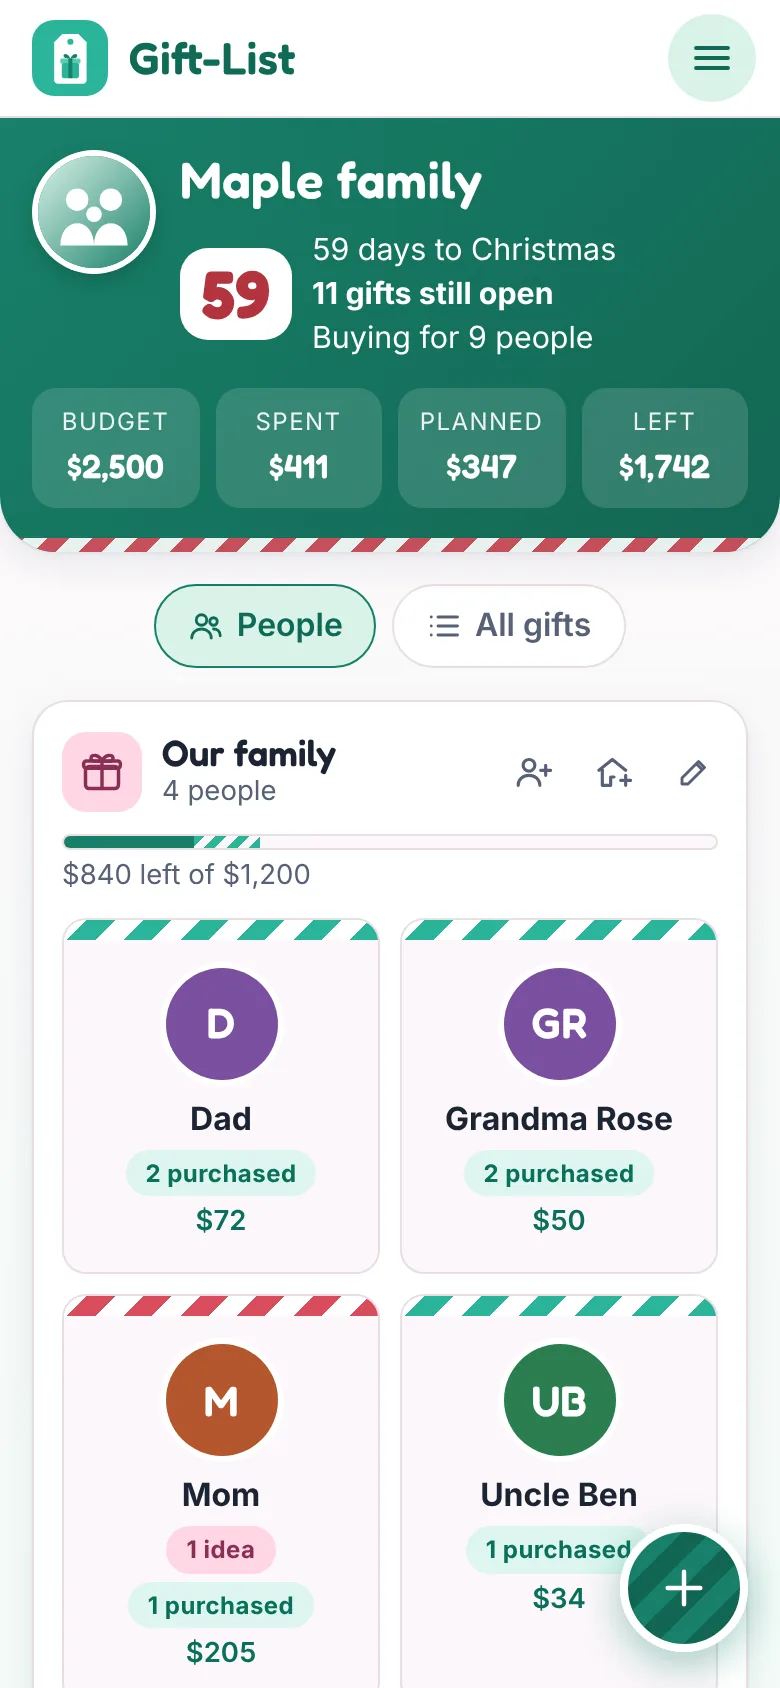
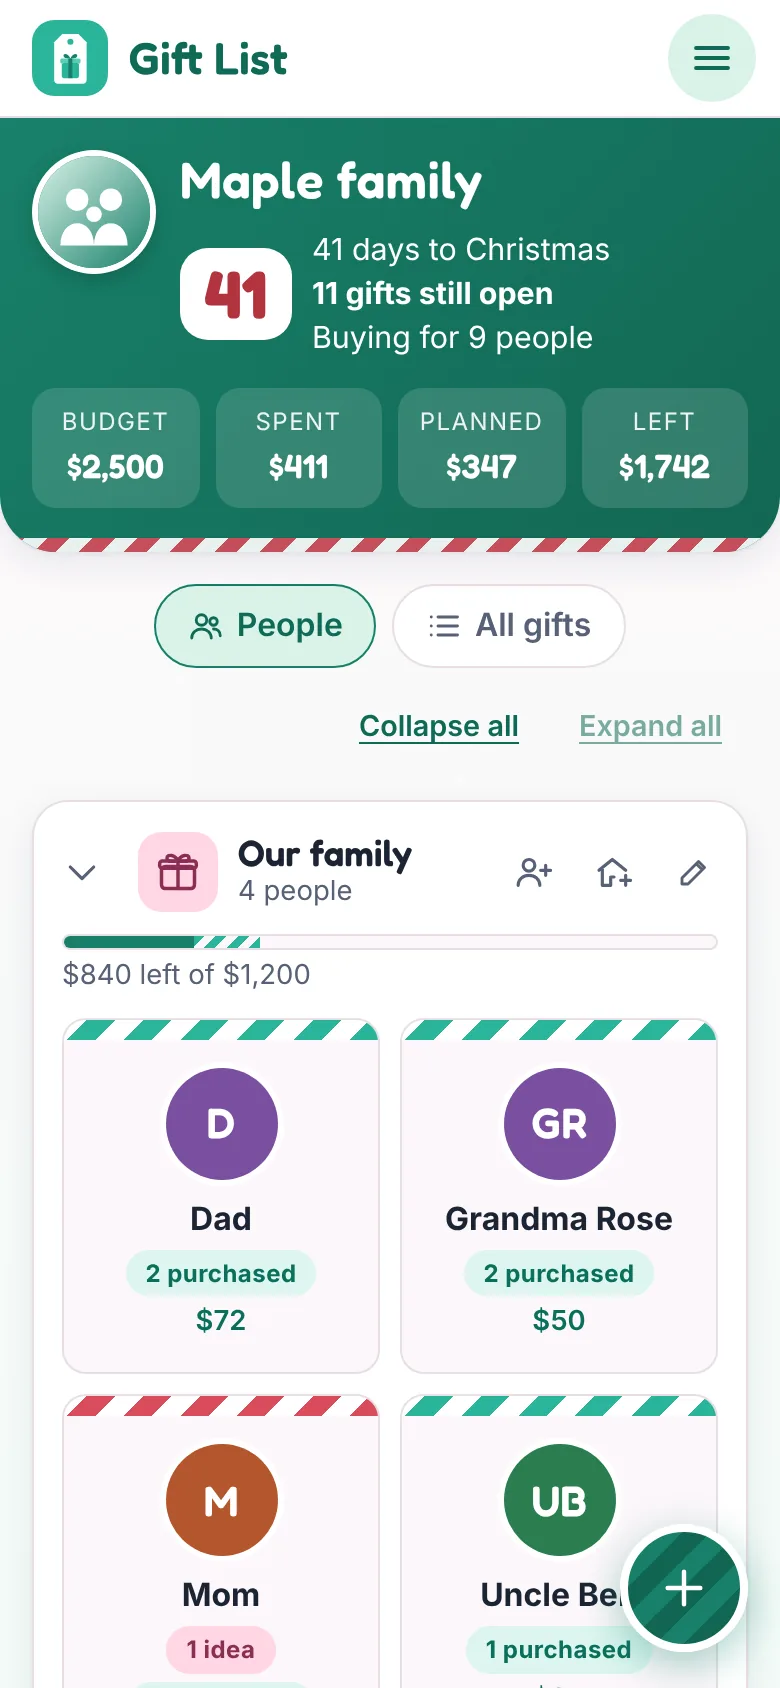
Name it Gift List everywhere (#58)
* Show the app name as Gift List in the top bar

Claude-Session: https://claude.ai/code/session_01QU72hNHumgCYNJom92zNrY

* Gift List everywhere: tab title, Home Screen name, sign-in, settings, widget, docs, landing screens

Claude-Session: https://claude.ai/code/session_01QU72hNHumgCYNJom92zNrY

---------

diff --git a/src/sheets/SettingsSheet.tsx b/src/sheets/SettingsSheet.tsx
@@ -488,13 +488,13 @@ function NotificationsSection({ householdId, userId }: { householdId: string; us
     <section className="stack section">
       {state === 'needs-install' && (
         <p className="muted small">
-          On iPhone, notifications only work from the Gift-List app on your Home Screen. Open it from there, then come
+          On iPhone, notifications only work from the Gift List app on your Home Screen. Open it from there, then come
           back to this switch.
         </p>
       )}
       {state === 'unsupported' && <p className="muted small">This phone's browser can't show notifications.</p>}
       {state === 'denied' && (
-        <p className="muted small">Notifications are blocked for Gift-List. Turn them on in your phone's settings.</p>
+        <p className="muted small">Notifications are blocked for Gift List. Turn them on in your phone's settings.</p>
       )}
       {(state === 'off' || state === 'on') && (
         <>
@@ -513,7 +513,7 @@ function NotificationsSection({ householdId, userId }: { householdId: string; us
   );
 }
 
-/** How to set up the iPhone Shortcut that shares shop pages into Gift-List. */
+/** How to set up the iPhone Shortcut that shares shop pages into Gift List. */
 function ShareShortcutHelp() {
   const address = `${window.location.origin}${import.meta.env.BASE_URL}#/add?url=`;
   const [copied, setCopied] = useState(false);
@@ -531,12 +531,12 @@ function ShareShortcutHelp() {
   return (
     <section className="stack section">
       <p className="muted small">
-        Set this up once on each phone. Then on any shop page, tap <strong>Share → Gift-List</strong> and the idea opens
+        Set this up once on each phone. Then on any shop page, tap <strong>Share → Gift List</strong> and the idea opens
         here with the link filled in.
       </p>
       <ol className="steps small">
         <li>
-          Open the <strong>Shortcuts</strong> app, tap <strong>+</strong>, and name it <strong>Gift-List</strong>.
+          Open the <strong>Shortcuts</strong> app, tap <strong>+</strong>, and name it <strong>Gift List</strong>.
         </li>
         <li>
           Tap the <strong>ⓘ</strong> details and turn on <strong>Show in Share Sheet</strong>. Set it to receive{' '}
@@ -554,11 +554,11 @@ function ShareShortcutHelp() {
         </li>
       </ol>
       <label className="field">
-        <span>Gift-List address for step 4</span>
+        <span>Gift List address for step 4</span>
         <input readOnly value={address} onFocus={(e) => e.currentTarget.select()} />
       </label>
       <button type="button" className="btn small" onClick={() => void copy()}>
-        {copied ? 'Copied!' : 'Copy the Gift-List address'}
+        {copied ? 'Copied!' : 'Copy the Gift List address'}
       </button>
     </section>
   );
@@ -601,8 +601,8 @@ function WidgetSection() {
       <ol className="steps small">
         <li>Install <strong>Scriptable</strong> from the App Store (free).</li>
         <li>Tap <strong>Make my widget link</strong> below, then <strong>Copy script</strong>.</li>
-        <li>In Scriptable tap <strong>+</strong>, paste the script, and name it Gift-List.</li>
-        <li>On your Home Screen touch and hold, tap <strong>+</strong>, pick <strong>Scriptable</strong>, add a widget, then tap it and choose the Gift-List script.</li>
+        <li>In Scriptable tap <strong>+</strong>, paste the script, and name it Gift List.</li>
+        <li>On your Home Screen touch and hold, tap <strong>+</strong>, pick <strong>Scriptable</strong>, add a widget, then tap it and choose the Gift List script.</li>
       </ol>
       <button type="button" className="btn primary" disabled={busy} onClick={() => void make()}>
         {busy ? 'Making…' : script ? 'Make a new link' : 'Make my widget link'}

diff --git a/src/screens/Landing.tsx b/src/screens/Landing.tsx
@@ -40,14 +40,14 @@ const FEATURES: Feature[] = [
   {
     icon: 'link',
     title: 'Share from any shop in two taps',
-    text: 'Found it online? Share the page to Gift-List and the name, store and link are filled in for you. Just pick who it is for.',
+    text: 'Found it online? Share the page to Gift List and the name, store and link are filled in for you. Just pick who it is for.',
     image: 'screen-add.webp',
     alt: 'The new gift idea form already filled in from a shared shop link',
   },
   {
     icon: 'settings',
     title: 'Made for both of you',
-    text: 'Invite your partner and you both see and edit the same list, live. Turn on notifications, add the phone widget and put Gift-List on your Home Screen.',
+    text: 'Invite your partner and you both see and edit the same list, live. Turn on notifications, add the phone widget and put Gift List on your Home Screen.',
     image: 'screen-settings.webp',
     alt: 'The settings menu with the list, who is on it, notifications, sharing and the phone widget',
   },
@@ -78,7 +78,7 @@ export function Landing({ notice }: { notice?: string | null }) {
       <header className="landing-bar">
         <div className="landing-brand">
           <Logo size={36} />
-          <span className="landing-name">Gift-List</span>
+          <span className="landing-name">Gift List</span>
         </div>
         <button type="button" className="btn small" onClick={goToSignIn}>
           Sign in
@@ -103,12 +103,12 @@ export function Landing({ notice }: { notice?: string | null }) {
               <p className="muted small">No app store. Works on any phone.</p>
             </div>
           </div>
-          <Phone src="screen-people.webp" alt="The Gift-List home screen with the Christmas countdown, budget and groups of people" eager />
+          <Phone src="screen-people.webp" alt="The Gift List home screen with the Christmas countdown, budget and groups of people" eager />
         </section>
 
         <div className="candy-rule" aria-hidden="true" />
 
-        <section className="landing-features" aria-label="What Gift-List does">
+        <section className="landing-features" aria-label="What Gift List does">
           {FEATURES.map((f, i) => (
             <article key={f.title} className={`landing-feature${i % 2 ? ' flip' : ''}`}>
               <div className="landing-feature-text">

diff --git a/src/lib/widget.ts b/src/lib/widget.ts
@@ -24,7 +24,7 @@ export async function requestWidgetLink(): Promise<string> {
   return body.url;
 }
 
-const SCRIPT = `// Gift-List widget for Scriptable
+const SCRIPT = `// Gift List widget for Scriptable
 const LINK = __LINK__;
 const SITE = __SITE__;
 const MINT = "#18806a";
@@ -142,7 +142,7 @@ function title(stack, size) {
   const mark = row.addImage(logo(44));
   mark.imageSize = new Size(size + 6, size + 6);
   row.addSpacer(5);
-  add(row, "Gift-List", size, "semibold", new Color("#ffffff", 0.92));
+  add(row, "Gift List", size, "semibold", new Color("#ffffff", 0.92));
   return row;
 }
 
@@ -174,7 +174,7 @@ function drawMedium(data, people, open, left, days) {
   ctx.setTextAlignedLeft();
   ctx.setFont(Font.semiboldRoundedSystemFont(13));
   ctx.setTextColor(new Color("#ffffff", 0.92));
-  ctx.drawTextInRect("Gift-List", new Rect(37, 13, LW - 42, 18));
+  ctx.drawTextInRect("Gift List", new Rect(37, 13, LW - 42, 18));
   ctx.setFont(Font.boldRoundedSystemFont(40));
   ctx.setTextColor(Color.white());
   ctx.drawTextInRect(String(data.days), new Rect(12, 38, LW - 16, 46));
@@ -230,7 +230,7 @@ const people = data && data.people ? data.people : [];
 
 if (family.indexOf("accessory") === 0) {
   w.addAccessoryWidgetBackground = true;
-  add(w, "Gift-List", 12, "semibold");
+  add(w, "Gift List", 12, "semibold");
   if (!data) {
     add(w, "Can't reach it", 13, "semibold");
   } else {
@@ -269,7 +269,7 @@ if (family.indexOf("accessory") === 0) {
   title(w, 13);
   w.addSpacer(4);
   if (!data) {
-    add(w, "Can't reach Gift-List", 15, "semibold", Color.white());
+    add(w, "Can't reach Gift List", 15, "semibold", Color.white());
   } else {
     add(w, days, family === "small" ? 34 : 42, "bold", Color.white());
     add(w, data.days === 0 ? "" : "to Christmas", 14, "semibold", new Color("#ffffff", 0.9));

diff --git a/index.html b/index.html
@@ -10,18 +10,18 @@
     <link rel="apple-touch-icon" href="/app-icon-180.png" />
     <meta name="apple-mobile-web-app-capable" content="yes" />
     <meta name="mobile-web-app-capable" content="yes" />
-    <meta name="apple-mobile-web-app-title" content="Gift-List" />
+    <meta name="apple-mobile-web-app-title" content="Gift List" />
     <meta name="apple-mobile-web-app-status-bar-style" content="default" />
     <link rel="preconnect" href="https://fonts.googleapis.com" />
     <link rel="preconnect" href="https://fonts.gstatic.com" crossorigin />
     <link href="https://fonts.googleapis.com/css2?family=Fredoka:wght@500;600;700&display=swap" rel="stylesheet" />
     <meta name="description" content="A playful shared Christmas gift list and budget for you and your partner. Ideas, prices, pictures and who is buying what." />
     <meta property="og:type" content="website" />
-    <meta property="og:title" content="Gift-List: Christmas, sorted. Together." />
+    <meta property="og:title" content="Gift List: Christmas, sorted. Together." />
     <meta property="og:description" content="The shared gift list and budget for you and your partner. Free." />
     <meta property="og:image" content="https://gon3tom-32.github.io/Gift-List/landing/screen-people.webp" />
     <meta name="twitter:card" content="summary" />
-    <title>Gift-List</title>
+    <title>Gift List</title>
   </head>
   <body>
     <div id="root"></div>

diff --git a/src/screens/SignIn.tsx b/src/screens/SignIn.tsx
@@ -76,7 +76,7 @@ export function SignIn({ notice, embedded }: { notice?: string | null; embedded?
         <div className="signin-badge" aria-hidden="true">
           <Icon name="gift" size={40} />
         </div>
-        <h1 className="display">Gift-List</h1>
+        <h1 className="display">Gift List</h1>
         <p className="muted">{countdownText()}. Let's get the list sorted together.</p>
 
         {state === 'sent' ? (
@@ -163,7 +163,7 @@ export function SignIn({ notice, embedded }: { notice?: string | null; embedded?
       </div>
 
       {!embedded && (
-        <section className="how-it-works" aria-label="How Gift-List works">
+        <section className="how-it-works" aria-label="How Gift List works">
           <h2 className="h4">How it works</h2>
           <ol>
             <li>

diff --git a/src/lib/push.ts b/src/lib/push.ts
@@ -44,7 +44,7 @@ export async function pushState(): Promise<PushState> {
 
 /** Asks permission and saves this phone's push address. Must run from a tap. */
 export async function enablePush(householdId: string, userId: string): Promise<void> {
-  if (!canPush()) throw new Error('Notifications need the Gift-List app on your Home Screen.');
+  if (!canPush()) throw new Error('Notifications need the Gift List app on your Home Screen.');
   const permission = await Notification.requestPermission();
   if (permission !== 'granted') throw new Error('Notifications are blocked. Turn them on in your phone settings.');
   const reg = await navigator.serviceWorker.ready;

diff --git a/src/lib/widget.test.ts b/src/lib/widget.test.ts
@@ -125,7 +125,7 @@ describe('the widget script when it runs', () => {
     expect(out.urls).toContain('https://site.test/Gift-List/#/person/p1');
     expect(out.urls).toContain('https://site.test/Gift-List/#/person/p4');
     // The medium widget is drawn as one picture, so its words are drawn text rather than stack text.
-    expect(out.draws).toContain('Gift-List');
+    expect(out.draws).toContain('Gift List');
     expect(out.draws).toContain('63');
     expect(out.draws).toContain('5 gifts open');
     expect(out.draws).toContain('$892 left');

diff --git a/src/components/TopBar.tsx b/src/components/TopBar.tsx
@@ -8,7 +8,7 @@ export function TopBar({ onSettings }: { onSettings: () => void }) {
       <div className="top-bar-inner">
         <a className="top-bar-brand" href="#/">
           <Logo />
-          <span className="top-bar-name">Gift-List</span>
+          <span className="top-bar-name">Gift List</span>
         </a>
         <button type="button" className="icon-btn top-bar-btn" onClick={onSettings} aria-label="Settings">
           <Icon name="menu" size={24} />

diff --git a/src/components/Logo.tsx b/src/components/Logo.tsx
@@ -1,4 +1,4 @@
-/** The Gift-List mark: a hang tag with a small present, in a mint tile. */
+/** The Gift List mark: a hang tag with a small present, in a mint tile. */
 export function Logo({ size = 38 }: { size?: number }) {
   return (
     <span className="logo" style={{ width: size, height: size }} aria-hidden="true">

diff --git a/public/sw.js b/public/sw.js
@@ -1,6 +1,6 @@
 // Shows push notifications and opens the app when one is tapped.
 self.addEventListener('push', (event) => {
-  let data = { title: 'Gift-List', body: '' };
+  let data = { title: 'Gift List', body: '' };
   try {
     data = { ...data, ...event.data.json() };
   } catch {

diff --git a/src/styles.css b/src/styles.css
@@ -1,4 +1,4 @@
-/* Gift-List: snowy, candy-cane and mint. Mobile first. */
+/* Gift List: snowy, candy-cane and mint. Mobile first. */
 
 :root {
   --font-display: 'Fredoka', ui-rounded, 'SF Pro Rounded', system-ui, sans-serif;

diff --git a/docs/share-from-any-site.md b/docs/share-from-any-site.md
@@ -1,6 +1,6 @@
-# "Share to our app from any site": how Gift-List does it, and how to reuse it
+# "Share to our app from any site": how Gift List does it, and how to reuse it
 
-This guide explains the feature in Gift-List where you tap **Share** on any shop page, choose the app, and a new idea opens already filled in with the product's name, picture and price. It is written so the same idea can be rebuilt for another product, for example **sharing a vehicle listing from another site into an Autotrader / AI Mode experience**. Wherever Gift-List captures gift details, you would capture vehicle details instead.
+This guide explains the feature in Gift List where you tap **Share** on any shop page, choose the app, and a new idea opens already filled in with the product's name, picture and price. It is written so the same idea can be rebuilt for another product, for example **sharing a vehicle listing from another site into an Autotrader / AI Mode experience**. Wherever Gift List captures gift details, you would capture vehicle details instead.
 
 ---
 
@@ -27,7 +27,7 @@ The rule that holds it all together: **reading the page is a convenience, never 
 
 ## 2. Piece one: getting the link into the app
 
-### iPhone: a Shortcut in the Share Sheet (what Gift-List uses)
+### iPhone: a Shortcut in the Share Sheet (what Gift List uses)
 
 A web app saved to the Home Screen cannot register itself in the iPhone Share Sheet, so each person makes a tiny Shortcut once. The app's Settings screen shows these steps with a copy button for the address:
 
@@ -53,7 +53,7 @@ Android supports a real **Web Share Target**: add a `share_target` to the web ap
 }
 ```
 
-(Gift-List does not use this yet because iPhone is the main device. If the Autotrader audience includes Android, add it. Test the hash-route interaction on a real device.)
+(Gift List does not use this yet because iPhone is the main device. If the Autotrader audience includes Android, add it. Test the hash-route interaction on a real device.)
 
 ### Always keep a manual path
 
@@ -70,11 +70,11 @@ https://app.example/#/add?url=<link>          (preferred)
 https://app.example/#/add?text=<anything>     (some apps share text only)
 ```
 
-Gift-List uses a **hash route** (`#/…`) because it is hosted on GitHub Pages, so there is no server-side routing. With a real server you can use a normal path (`/add?url=`). Either way, parse it in one small, well-tested function.
+Gift List uses a **hash route** (`#/…`) because it is hosted on GitHub Pages, so there is no server-side routing. With a real server you can use a normal path (`/add?url=`). Either way, parse it in one small, well-tested function.
 
 ### Shared content is messy. Parse defensively
 
-Real shares look like: `Check out this car https://a.co/xyz`, or the link is encoded, or not, or contains its own `&`. Gift-List's `parseShare` handles it like this:
+Real shares look like: `Check out this car https://a.co/xyz`, or the link is encoded, or not, or contains its own `&`. Gift List's `parseShare` handles it like this:
 
 - If the query starts with `url=`, treat **everything after it** as the shared thing (even if it contains `&`).
 - Otherwise read `url` and `text` parameters.
@@ -116,7 +116,7 @@ When the app sees the `add` route and the user's data has loaded:
 
 ### The form: fast, forgiving, never blocked
 
-- **Only the minimum is required** (Gift-List: just a name. For vehicles: probably just the link, or year/make/model).
+- **Only the minimum is required** (Gift List: just a name. For vehicles: probably just the link, or year/make/model).
 - When a link is present, wait ~400 ms (debounce), then call the lookup. Show "Looking up the link…" in the field hint, not as a blocking spinner.
 - When the answer arrives, **fill only fields the person has not already touched** (a `touched` ref per field). Never overwrite typing.
 - Show where a value came from ("Price from Cars.com. Change it if you like.").
@@ -127,7 +127,7 @@ When the app sees the `add` route and the user's data has loaded:
 
 ## 4. Piece three: the server function that reads the page
 
-Browsers cannot read other sites' pages (CORS), so a small server function does it. Gift-List uses a **Supabase Edge Function** (Deno), but any serverless runtime works.
+Browsers cannot read other sites' pages (CORS), so a small server function does it. Gift List uses a **Supabase Edge Function** (Deno), but any serverless runtime works.
 
 ### API shape
 
@@ -140,7 +140,7 @@ Both require a **signed-in user** (check the session token inside the function).
 
 ### Safety rules (non-negotiable, because it fetches arbitrary URLs for strangers)
 
-This is an SSRF risk (server-side request forgery). Gift-List's rules:
+This is an SSRF risk (server-side request forgery). Gift List's rules:
 
 - Only `http`/`https`, standard ports (80/443), no `user:password@` in the URL.
 - Block `localhost`, `*.localhost`, `*.internal`.
@@ -161,7 +161,7 @@ Try the most reliable, most generic sources first; fall back to site-specific on
 1. **Open Graph / Twitter meta tags** (`og:title`, `og:image`, `og:site_name`, `product:price:amount`, `og:price:amount`).
 2. **JSON-LD structured data** in `<script type="application/ld+json">`. This is where listing sites usually put the good stuff. Parse it as JSON, walk the tree, and read the node whose `@type` is what you want. **Do not take "the first price anywhere on the page"**: Best Buy listed a protection plan before the product and we showed the wrong price. Scope to the product node's `offers`.
 3. **Microdata** (`itemprop="price"`) and `<link rel="image_src">`.
-4. **Site-specific parsers** for the sites that matter most (Gift-List has one for Amazon: phone-layout image attributes, the `a-offscreen` price block, ASIN). Keep each one small, with sample HTML in the tests.
+4. **Site-specific parsers** for the sites that matter most (Gift List has one for Amazon: phone-layout image attributes, the `a-offscreen` price block, ASIN). Keep each one small, with sample HTML in the tests.
 5. **Embedded page state** (some sites ship `"currentPrice":9.99` in a JSON blob).
 6. **Last resort:** an LLM extraction pass on the cleaned page text (see section 8).
 
@@ -196,7 +196,7 @@ share → deep link → form opens (link + hint filled)
 
 ## 6. What to capture for vehicle listings (Autotrader version)
 
-Gift-List captures: name, store, link, photo, estimate, status. For a vehicle listing, plan for something like:
+Gift List captures: name, store, link, photo, estimate, status. For a vehicle listing, plan for something like:
 
 | Field | Where it usually comes from |
 |---|---|
@@ -221,7 +221,7 @@ Design notes specific to vehicles:
 
 ## 7. Money and data rules worth copying
 
-- Store money as exact decimals (or whole cents), never floats. Gift-List keeps `numeric(12,2)` in Postgres and whole cents in the app.
+- Store money as exact decimals (or whole cents), never floats. Gift List keeps `numeric(12,2)` in Postgres and whole cents in the app.
 - Row-level security on every table; every policy checks membership. Add a test for each new table.
 - Photos in a private bucket; save paths, create short-lived signed URLs when displaying.
 - Keep list data out of `localStorage`; use it only for tiny per-device conveniences.
@@ -289,7 +289,7 @@ The extraction pipeline gives AI Mode something much better than a raw link: **a
 
 ---
 
-### Where the Gift-List code lives (for reference)
+### Where the Gift List code lives (for reference)
 
 | Part | File |
 |---|---|
